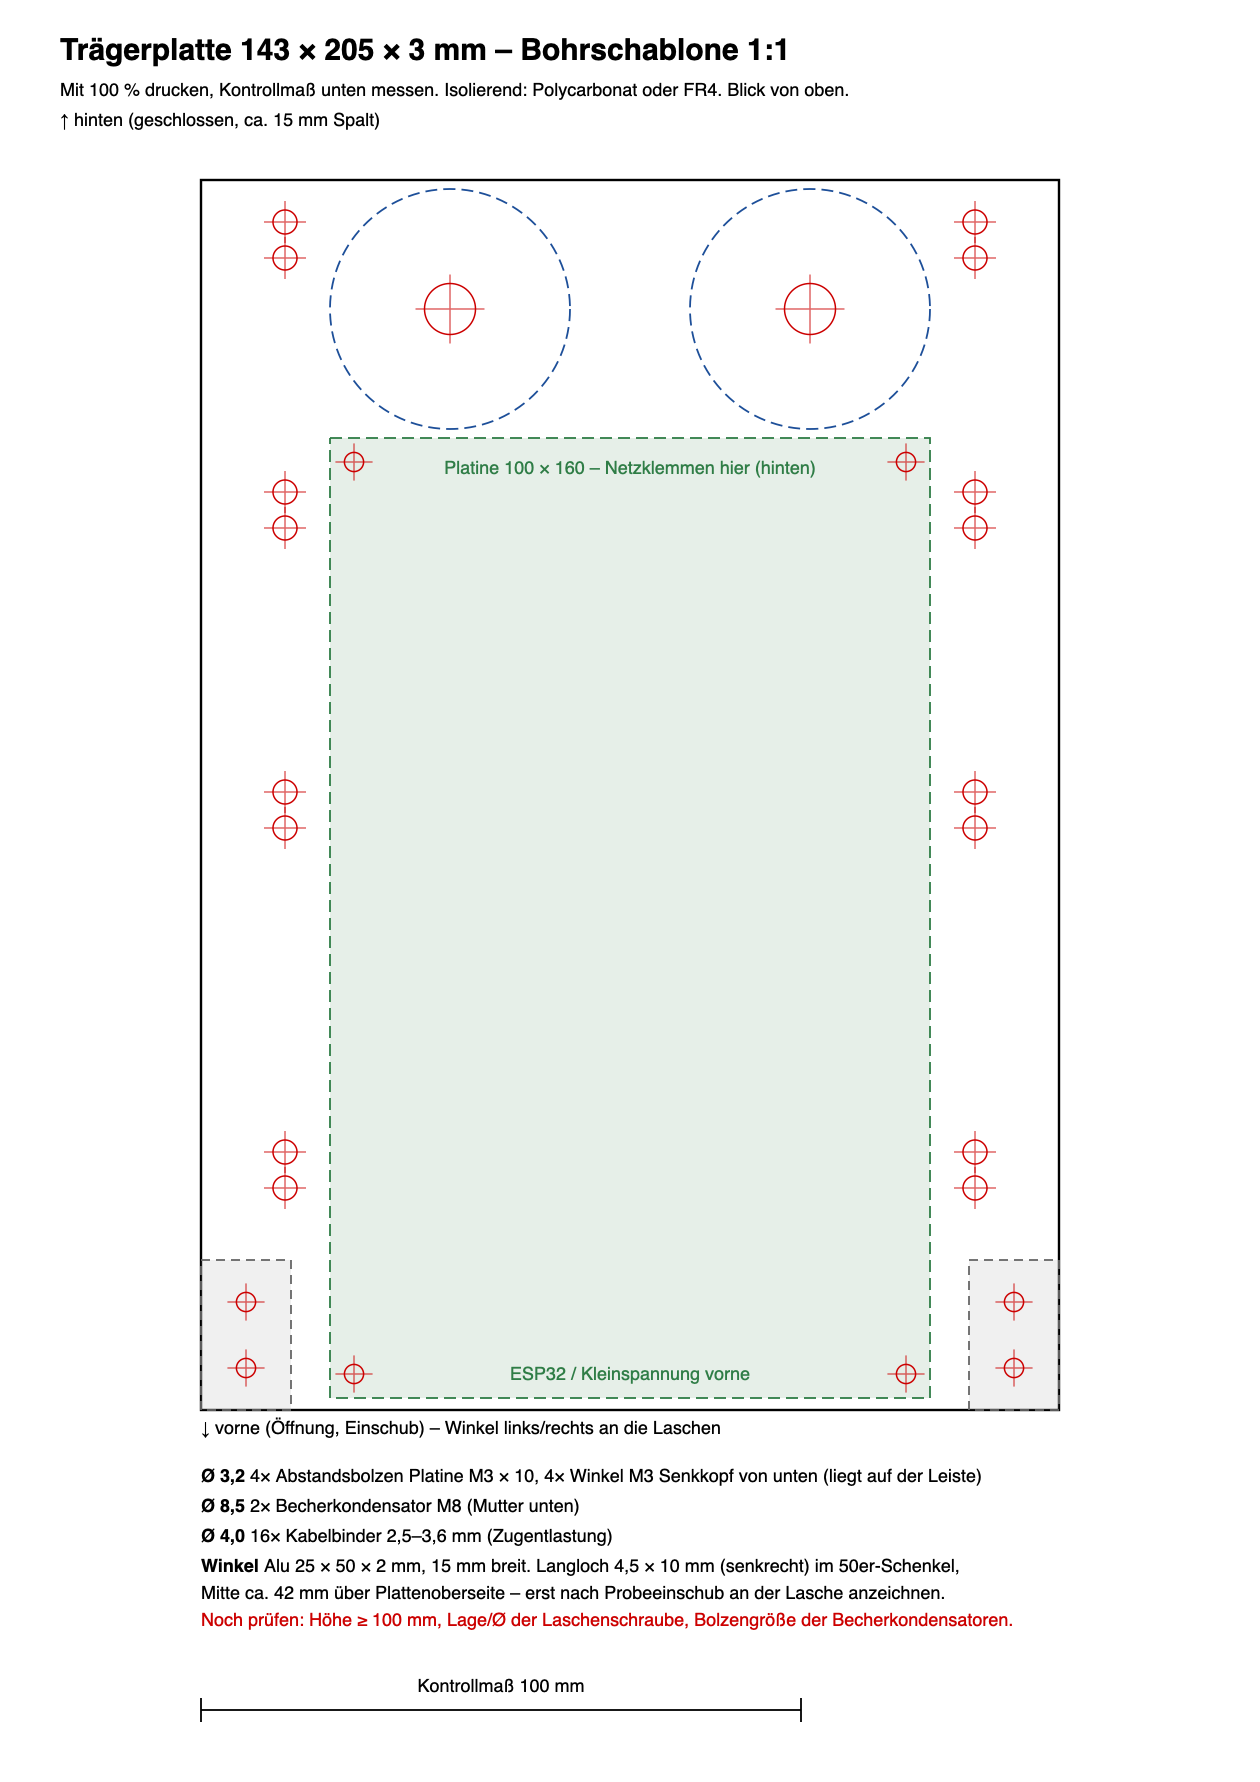
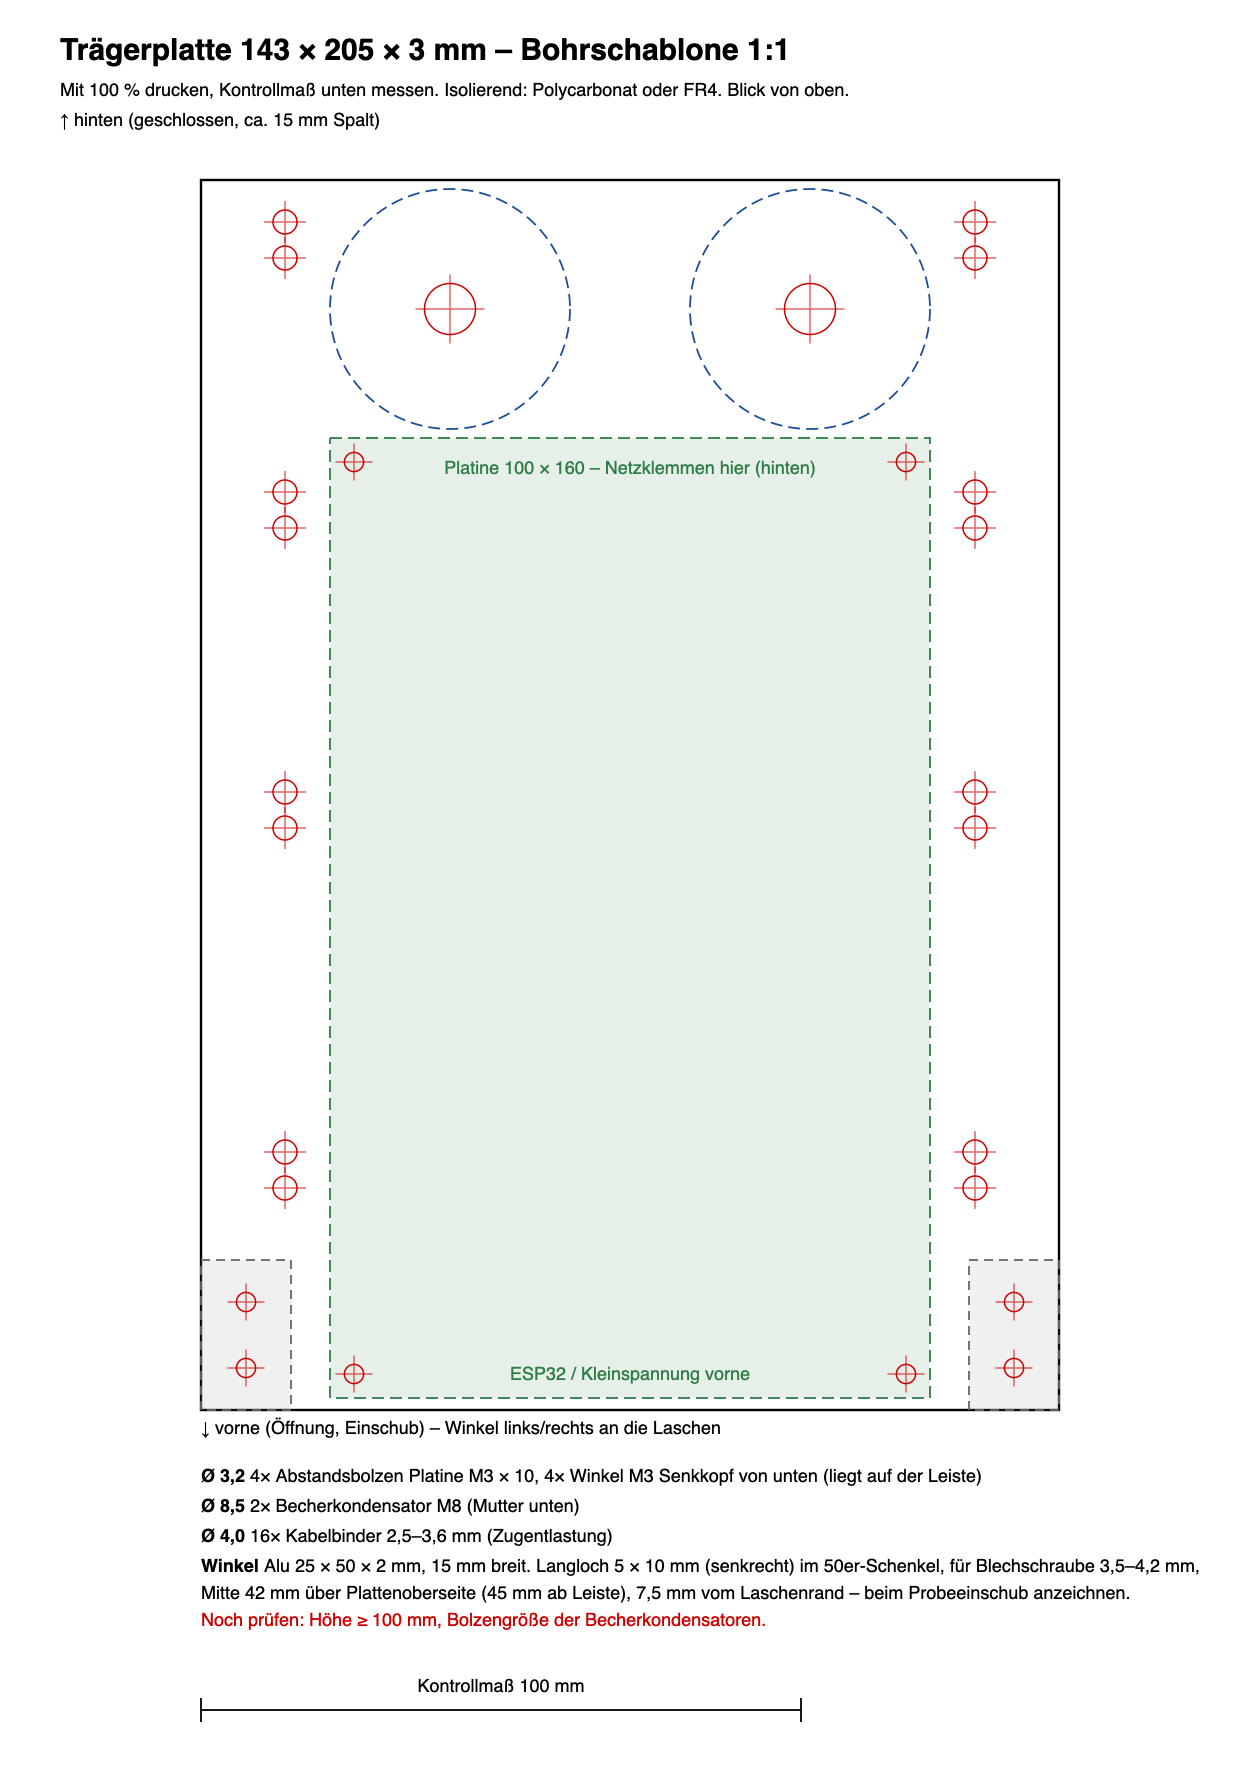
Traegerplatte: measured tab hole (45 mm above ledge, 7.5 mm from tab edge), slot 5 mm

Changed region(s): [[0.3405, 0.8642, 0.8976, 0.9259], [0.2786, 0.8642, 0.3095, 0.8951]]

diff --git a/hardware/traegerplatte/make_traegerplatte.py b/hardware/traegerplatte/make_traegerplatte.py
@@ -6,7 +6,8 @@ Erzeugt eine Bohrschablone 1:1 (A4 hochkant, SVG in mm). Ausdrucken mit 100 %
 („Tatsächliche Größe“), Kontrollmaß 100 mm nachmessen, aufkleben, körnen, bohren.
 
 Maße Aufnahmeraum (Skizze 23.11.2026): 145 mm breit, 220 mm tief,
-Auflageleisten 10 mm, Laschen vorne 45 mm über der Leiste, ca. 5 mm von der Wand.
+Auflageleisten 10 mm, Laschen vorne: Bohrung 45 mm über der Leiste (gemessen),
+7,5 mm vom Laschenrand, Blechschraube ca. 3,5–4,2 mm.
 
 Koordinaten: X quer (0 = linke Plattenkante), Y in Einschubrichtung
 (0 = Vorderkante an der Öffnung, wächst nach hinten).
@@ -39,7 +40,7 @@ CAP_D_MAX = 40.0
 
 # --- Winkel vorne (Alu 25 x 50, 15 mm breit), Langloch zur Lasche ----------
 ANGLE_X0, ANGLE_W, ANGLE_LEG = 0.0, 15.0, 25.0
-LASCHE_X = 5.0 - 1.0                     # 5 mm von der Wand, Platte 1 mm von der Wand
+LASCHE_RAND = 7.5                        # Bohrung ab Laschenrand (gemessen)
 LASCHE_H = 45.0 - PLATE_T                # über Plattenoberseite
 
 holes = []   # (x, y, d, label)
@@ -98,9 +99,9 @@ def svg():
     for i, (a, b) in enumerate(leg):
         o.append(f'<text x="{ox}" y="{ly + 5*i + 4}" font-size="3"><tspan font-weight="bold">{a}</tspan>  {b}</text>')
     wy = ly + 19
-    o.append(f'<text x="{ox}" y="{wy}" font-size="3"><tspan font-weight="bold">Winkel</tspan> Alu 25 × 50 × 2 mm, 15 mm breit. Langloch 4,5 × 10 mm (senkrecht) im 50er-Schenkel,</text>')
-    o.append(f'<text x="{ox}" y="{wy+4.5}" font-size="3">Mitte ca. {LASCHE_H:.0f} mm über Plattenoberseite – erst nach Probeeinschub an der Lasche anzeichnen.</text>')
-    o.append(f'<text x="{ox}" y="{wy+9}" font-size="3" fill="#c00">Noch prüfen: Höhe ≥ 100 mm, Lage/Ø der Laschenschraube, Bolzengröße der Becherkondensatoren.</text>')
+    o.append(f'<text x="{ox}" y="{wy}" font-size="3"><tspan font-weight="bold">Winkel</tspan> Alu 25 × 50 × 2 mm, 15 mm breit. Langloch 5 × 10 mm (senkrecht) im 50er-Schenkel, für Blechschraube 3,5–4,2 mm,</text>')
+    o.append(f'<text x="{ox}" y="{wy+4.5}" font-size="3">Mitte {LASCHE_H:.0f} mm über Plattenoberseite (45 mm ab Leiste), {str(LASCHE_RAND).replace(".", ",")} mm vom Laschenrand – beim Probeeinschub anzeichnen.</text>')
+    o.append(f'<text x="{ox}" y="{wy+9}" font-size="3" fill="#c00">Noch prüfen: Höhe ≥ 100 mm, Bolzengröße der Becherkondensatoren.</text>')
     # Kontrollmaß
     cy = H - 12
     o.append(f'<path d="M{ox} {cy} H{ox+100} M{ox} {cy-2} V{cy+2} M{ox+100} {cy-2} V{cy+2}" stroke="#000" stroke-width="0.3"/>')
